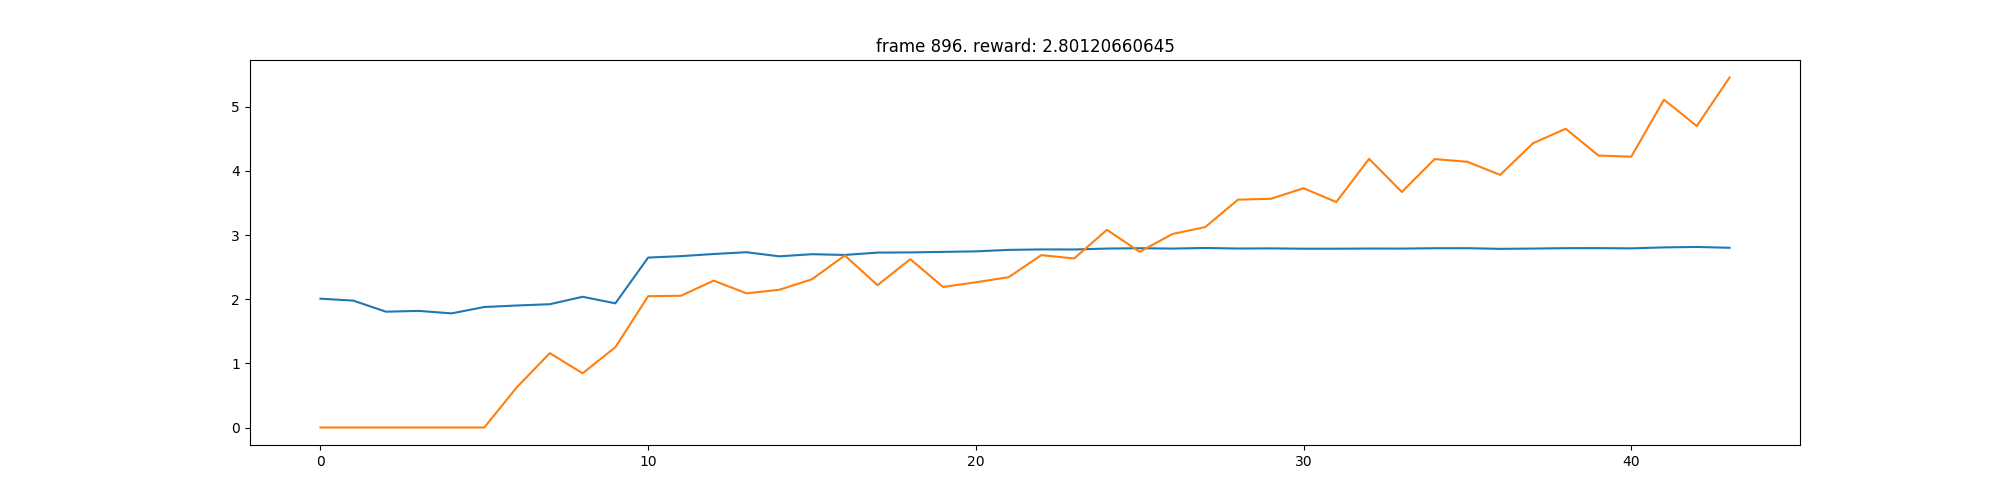
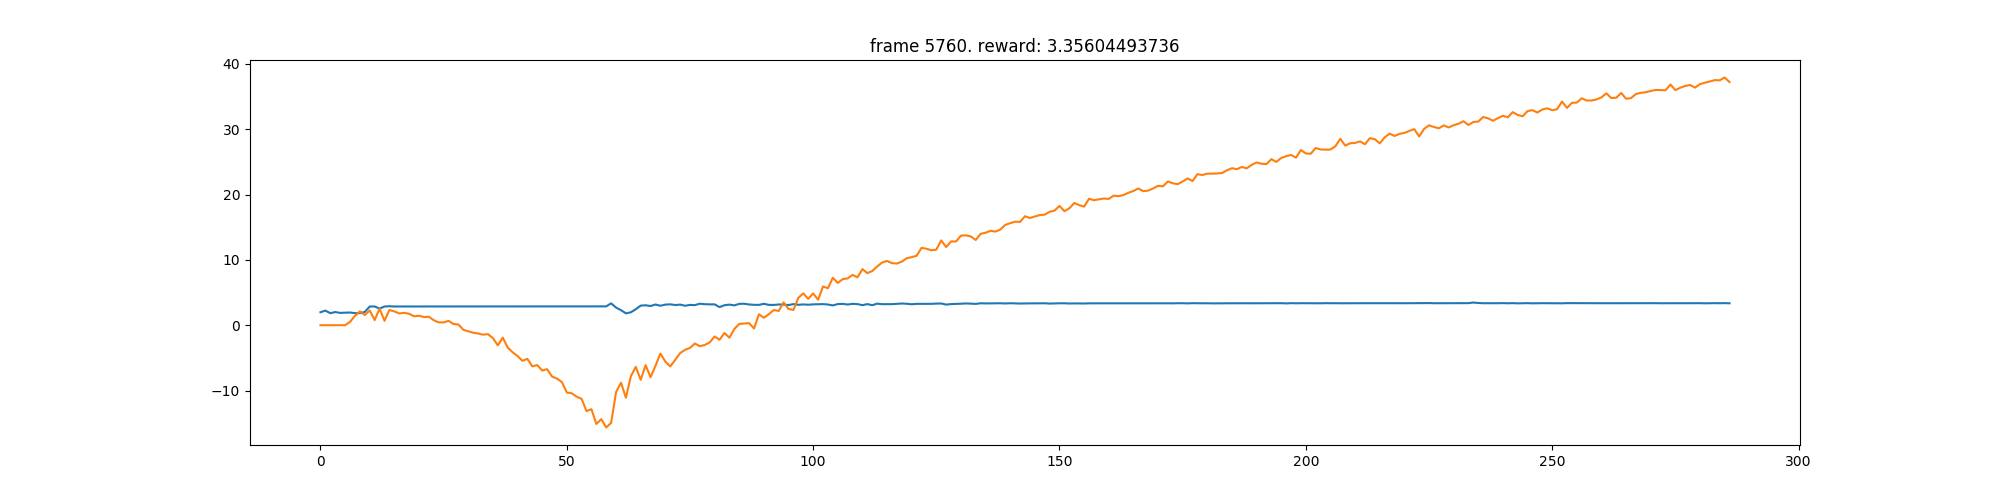
sac v2 alpha loss, sac trainer

diff --git a/sac_v2.py b/sac_v2.py
@@ -208,64 +208,108 @@ class PolicyNetwork(nn.Module):
     def sample_action(self,):
         a=torch.FloatTensor(self.num_actions).uniform_(-1, 1)
         return self.action_range*a
+class SAC_Trainer():
+    def __init__(self, replay_buffer, hidden_dim):
+        self.replay_buffer = replay_buffer
 
-def update(batch_size,gamma=0.99,soft_tau=1e-2,):
-    alpha = 0.0  # trade-off between exploration (max entropy) and exploitation (max Q) 
+
+        self.soft_q_net1 = SoftQNetwork(state_dim, action_dim, hidden_dim).to(device)
+        self.soft_q_net2 = SoftQNetwork(state_dim, action_dim, hidden_dim).to(device)
+        self.target_soft_q_net1 = SoftQNetwork(state_dim, action_dim, hidden_dim).to(device)
+        self.target_soft_q_net2 = SoftQNetwork(state_dim, action_dim, hidden_dim).to(device)
+        self.policy_net = PolicyNetwork(state_dim, action_dim, hidden_dim).to(device)
+        self.alpha = torch.zeros(1, dtype=torch.float32, requires_grad=True, device=device)
+        print('Soft Q Network (1,2): ', self.soft_q_net1)
+        print('Policy Network: ', self.policy_net)
+
+        for target_param, param in zip(self.target_soft_q_net1.parameters(), self.soft_q_net1.parameters()):
+            target_param.data.copy_(param.data)
+        for target_param, param in zip(self.target_soft_q_net2.parameters(), self.soft_q_net2.parameters()):
+            target_param.data.copy_(param.data)
+
+        self.soft_q_criterion1 = nn.MSELoss()
+        self.soft_q_criterion2 = nn.MSELoss()
+
+        soft_q_lr = 3e-4
+        policy_lr = 3e-4
+        alpha_lr  = 3e-4
+
+        self.soft_q_optimizer1 = optim.Adam(self.soft_q_net1.parameters(), lr=soft_q_lr)
+        self.soft_q_optimizer2 = optim.Adam(self.soft_q_net2.parameters(), lr=soft_q_lr)
+        self.policy_optimizer = optim.Adam(self.policy_net.parameters(), lr=policy_lr)
+        self.alpha_optimizer = optim.Adam([self.alpha], lr=alpha_lr)
+
     
-    state, action, reward, next_state, done = replay_buffer.sample(batch_size)
-    # print('sample:', state, action,  reward, done)
+    def update(self, batch_size, auto_entropy=True, target_entropy=-2, gamma=0.99,soft_tau=1e-2):
+        state, action, reward, next_state, done = self.replay_buffer.sample(batch_size)
+        # print('sample:', state, action,  reward, done)
 
-    state      = torch.FloatTensor(state).to(device)
-    next_state = torch.FloatTensor(next_state).to(device)
-    action     = torch.FloatTensor(action).to(device)
-    reward     = torch.FloatTensor(reward).unsqueeze(1).to(device)  # reward is single value, unsqueeze() to add one dim to be [reward] at the sample dim;
-    done       = torch.FloatTensor(np.float32(done)).unsqueeze(1).to(device)
+        state      = torch.FloatTensor(state).to(device)
+        next_state = torch.FloatTensor(next_state).to(device)
+        action     = torch.FloatTensor(action).to(device)
+        reward     = torch.FloatTensor(reward).unsqueeze(1).to(device)  # reward is single value, unsqueeze() to add one dim to be [reward] at the sample dim;
+        done       = torch.FloatTensor(np.float32(done)).unsqueeze(1).to(device)
 
-    predicted_q_value1 = soft_q_net1(state, action)
-    predicted_q_value2 = soft_q_net2(state, action)
-    new_action, log_prob, epsilon, mean, log_std = policy_net.evaluate(state)
-    new_next_action, next_log_prob, _, _, _ = policy_net.evaluate(next_state)
+        predicted_q_value1 = self.soft_q_net1(state, action)
+        predicted_q_value2 = self.soft_q_net2(state, action)
+        new_action, log_prob, epsilon, mean, log_std = self.policy_net.evaluate(state)
+        new_next_action, next_log_prob, _, _, _ = self.policy_net.evaluate(next_state)
 
-    reward = (reward - reward.mean(dim=0)) /reward.std(dim=0) # normalize with batch mean and std
-# Training Q Function
-    target_q_min = torch.min(target_soft_q_net1(next_state, new_next_action),target_soft_q_net2(next_state, new_next_action)) - alpha * next_log_prob
-    target_q_value = reward + (1 - done) * gamma * target_q_min # if done==1, only reward
-    # print('r: ', reward)
-    print('pre q 1: ', predicted_q_value1[0] )
-    print('t q : ', target_q_value[0])
-    q_value_loss1 = soft_q_criterion1(predicted_q_value1, target_q_value.detach())  # detach: no gradients for the variable
-    q_value_loss2 = soft_q_criterion2(predicted_q_value2, target_q_value.detach())
+        reward = (reward - reward.mean(dim=0)) /reward.std(dim=0) # normalize with batch mean and std
+    # Updating alpha wrt entropy
+        # alpha = 0.0  # trade-off between exploration (max entropy) and exploitation (max Q) 
+        if auto_entropy is True:
+            alpha_loss = -(self.alpha * (log_prob + target_entropy).detach()).mean()
+            print('alpha loss: ',alpha_loss)
+            self.alpha_optimizer.zero_grad()
+            alpha_loss.backward()
+            self.alpha_optimizer.step()
+        else:
+            self.alpha = 1.
+            alpha_loss = 0
+        print('alpha: ',self.alpha)
 
-
-    soft_q_optimizer1.zero_grad()
-    q_value_loss1.backward()
-    soft_q_optimizer1.step()
-    soft_q_optimizer2.zero_grad()
-    q_value_loss2.backward()
-    soft_q_optimizer2.step()  
-
-# Training Policy Function
-    predicted_new_q_value = torch.min(soft_q_net1(state, new_action),soft_q_net2(state, new_action))
-    policy_loss = (alpha * log_prob - predicted_new_q_value).mean()
-
-    policy_optimizer.zero_grad()
-    policy_loss.backward()
-    policy_optimizer.step()
-    
-    print('q loss: ', q_value_loss1, q_value_loss2)
-    print('policy loss: ', policy_loss )
+    # Training Q Function
+        target_q_min = torch.min(self.target_soft_q_net1(next_state, new_next_action),self.target_soft_q_net2(next_state, new_next_action)) - self.alpha * next_log_prob
+        target_q_value = reward + (1 - done) * gamma * target_q_min # if done==1, only reward
+        # print('r: ', reward)
+        print('pre q 1: ', predicted_q_value1[0] )
+        print('t q : ', target_q_value[0])
+        q_value_loss1 = self.soft_q_criterion1(predicted_q_value1, target_q_value.detach())  # detach: no gradients for the variable
+        q_value_loss2 = self.soft_q_criterion2(predicted_q_value2, target_q_value.detach())
 
 
-# Soft update the target value net
-    for target_param, param in zip(target_soft_q_net1.parameters(), soft_q_net1.parameters()):
-        target_param.data.copy_(  # copy data value into target parameters
-            target_param.data * (1.0 - soft_tau) + param.data * soft_tau
-        )
-    for target_param, param in zip(target_soft_q_net2.parameters(), soft_q_net2.parameters()):
-        target_param.data.copy_(  # copy data value into target parameters
-            target_param.data * (1.0 - soft_tau) + param.data * soft_tau
-        )
-    return predicted_new_q_value.mean()
+        self.soft_q_optimizer1.zero_grad()
+        q_value_loss1.backward()
+        self.soft_q_optimizer1.step()
+        self.soft_q_optimizer2.zero_grad()
+        q_value_loss2.backward()
+        self.soft_q_optimizer2.step()  
+
+    # Training Policy Function
+        predicted_new_q_value = torch.min(self.soft_q_net1(state, new_action),self.soft_q_net2(state, new_action))
+        policy_loss = (self.alpha * log_prob - predicted_new_q_value).mean()
+
+        self.policy_optimizer.zero_grad()
+        policy_loss.backward()
+        self.policy_optimizer.step()
+        
+        print('q loss: ', q_value_loss1, q_value_loss2)
+        print('policy loss: ', policy_loss )
+
+
+    # Soft update the target value net
+        for target_param, param in zip(self.target_soft_q_net1.parameters(), self.soft_q_net1.parameters()):
+            target_param.data.copy_(  # copy data value into target parameters
+                target_param.data * (1.0 - soft_tau) + param.data * soft_tau
+            )
+        for target_param, param in zip(self.target_soft_q_net2.parameters(), self.soft_q_net2.parameters()):
+            target_param.data.copy_(  # copy data value into target parameters
+                target_param.data * (1.0 - soft_tau) + param.data * soft_tau
+            )
+        return predicted_new_q_value.mean()
+
+
 
 # intialization
 # NUM_JOINTS=4
@@ -277,39 +321,14 @@ INI_JOING_ANGLES=[0.1, 0.1]
 SCREEN_SIZE=1000
 SPARSE_REWARD=False
 SCREEN_SHOT=False
+AUTO_ENTROPY=True
 env=Reacher(screen_size=SCREEN_SIZE, num_joints=NUM_JOINTS, link_lengths = LINK_LENGTH, \
 ini_joint_angles=INI_JOING_ANGLES, target_pos = [669,430], render=True)
 action_dim = env.num_actions
 state_dim  = env.num_observations
 hidden_dim = 512
 
-# value_net        = ValueNetwork(state_dim, hidden_dim).to(device)
-# target_value_net = ValueNetwork(state_dim, hidden_dim).to(device)
 
-soft_q_net1 = SoftQNetwork(state_dim, action_dim, hidden_dim).to(device)
-soft_q_net2 = SoftQNetwork(state_dim, action_dim, hidden_dim).to(device)
-target_soft_q_net1 = SoftQNetwork(state_dim, action_dim, hidden_dim).to(device)
-target_soft_q_net2 = SoftQNetwork(state_dim, action_dim, hidden_dim).to(device)
-policy_net = PolicyNetwork(state_dim, action_dim, hidden_dim).to(device)
-
-print('Soft Q Network (1,2): ', soft_q_net1)
-print('Policy Network: ', policy_net)
-
-for target_param, param in zip(target_soft_q_net1.parameters(), soft_q_net1.parameters()):
-    target_param.data.copy_(param.data)
-for target_param, param in zip(target_soft_q_net2.parameters(), soft_q_net2.parameters()):
-    target_param.data.copy_(param.data)
-
-soft_q_criterion1 = nn.MSELoss()
-soft_q_criterion2 = nn.MSELoss()
-
-value_lr  = 3e-4
-soft_q_lr = 3e-4
-policy_lr = 3e-4
-
-soft_q_optimizer1 = optim.Adam(soft_q_net1.parameters(), lr=soft_q_lr)
-soft_q_optimizer2 = optim.Adam(soft_q_net2.parameters(), lr=soft_q_lr)
-policy_optimizer = optim.Adam(policy_net.parameters(), lr=policy_lr)
 
 
 replay_buffer_size = 1e6
@@ -325,6 +344,7 @@ explore_steps = 200
 rewards     = []
 predict_qs  = []
 NORM_OBS=True
+sac_trainer=SAC_Trainer(replay_buffer, hidden_dim=hidden_dim )
 
 # training loop
 while frame_idx < max_frames:
@@ -337,10 +357,10 @@ while frame_idx < max_frames:
     
     for step in range(max_steps):
         if frame_idx > explore_steps:
-            action = policy_net.get_action(state).detach()
-        # action = policy_net.get_action(state)
+            action = sac_trainer.policy_net.get_action(state).detach()
+        # action = sac_trainer.policy_net.get_action(state)
         else:
-            action = policy_net.sample_action()
+            action = sac_trainer.policy_net.sample_action()
         print('action: ', action)
         next_state, reward, done, _ = env.step(action.numpy(), SPARSE_REWARD, SCREEN_SHOT)
         if NORM_OBS:
@@ -353,7 +373,7 @@ while frame_idx < max_frames:
         print(frame_idx)
         
         if len(replay_buffer) > batch_size:
-            predict_q=update(batch_size)
+            predict_q=sac_trainer.update(batch_size, auto_entropy=AUTO_ENTROPY, target_entropy=-1.*action_dim)
             print('update')
         
         if frame_idx % batch_size == 0:
